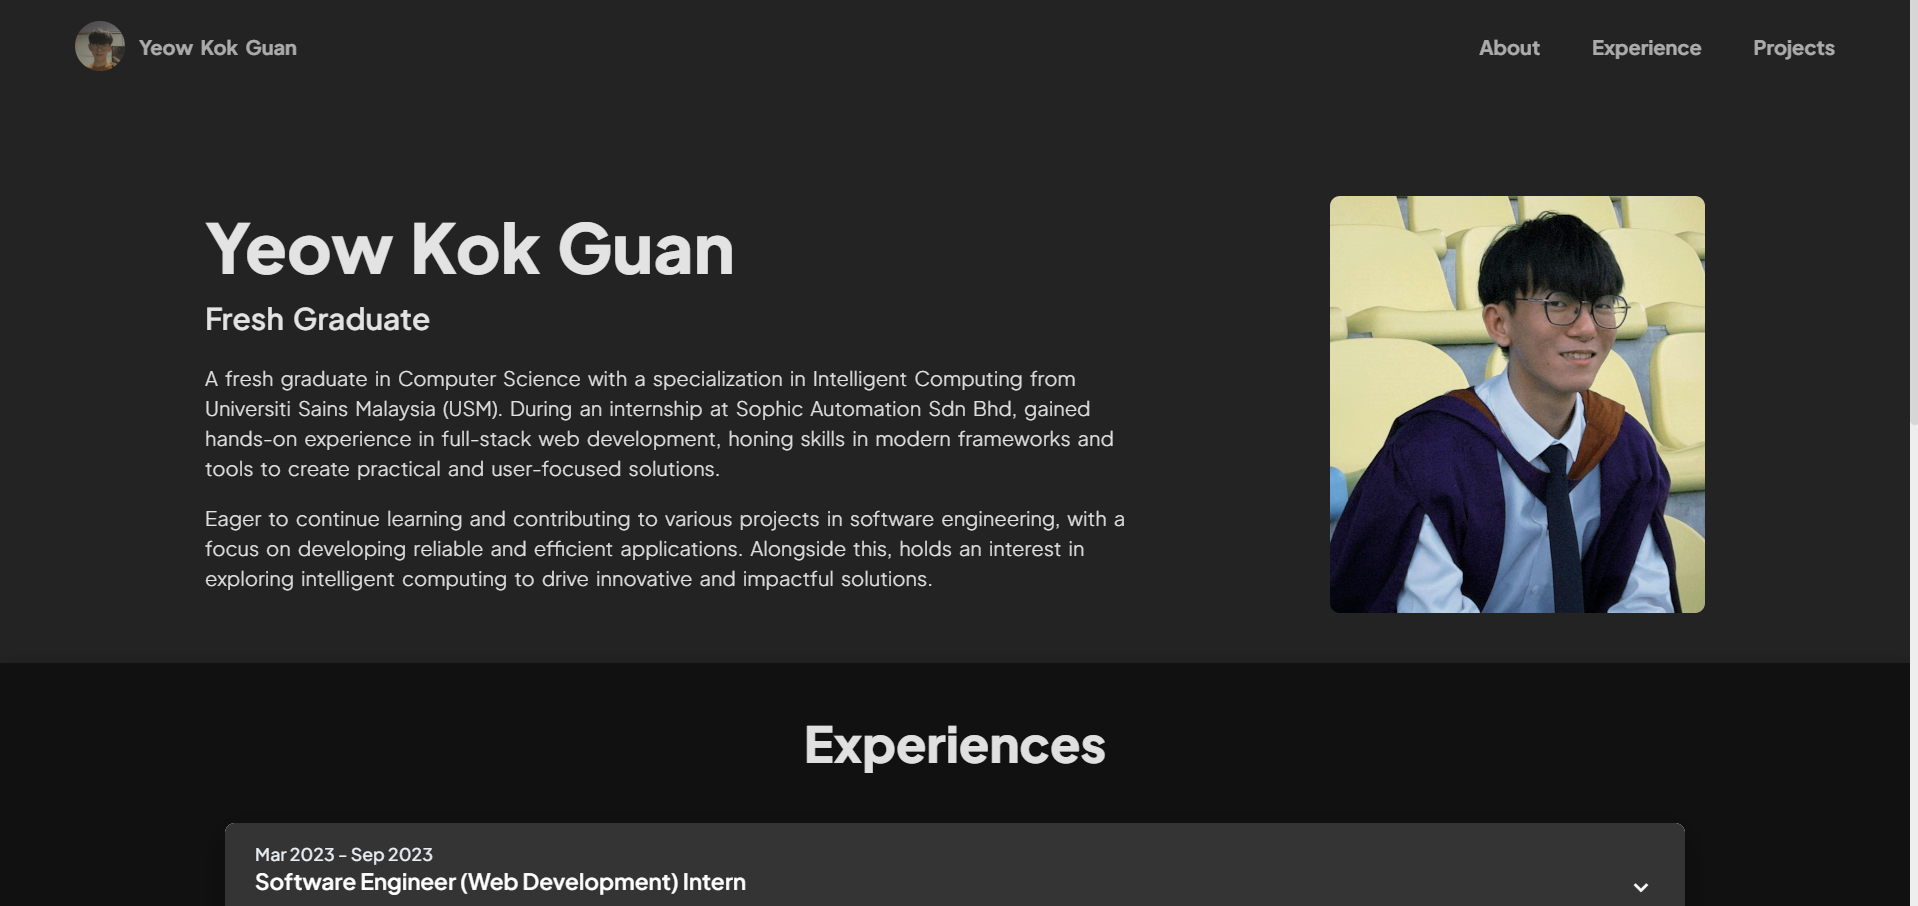
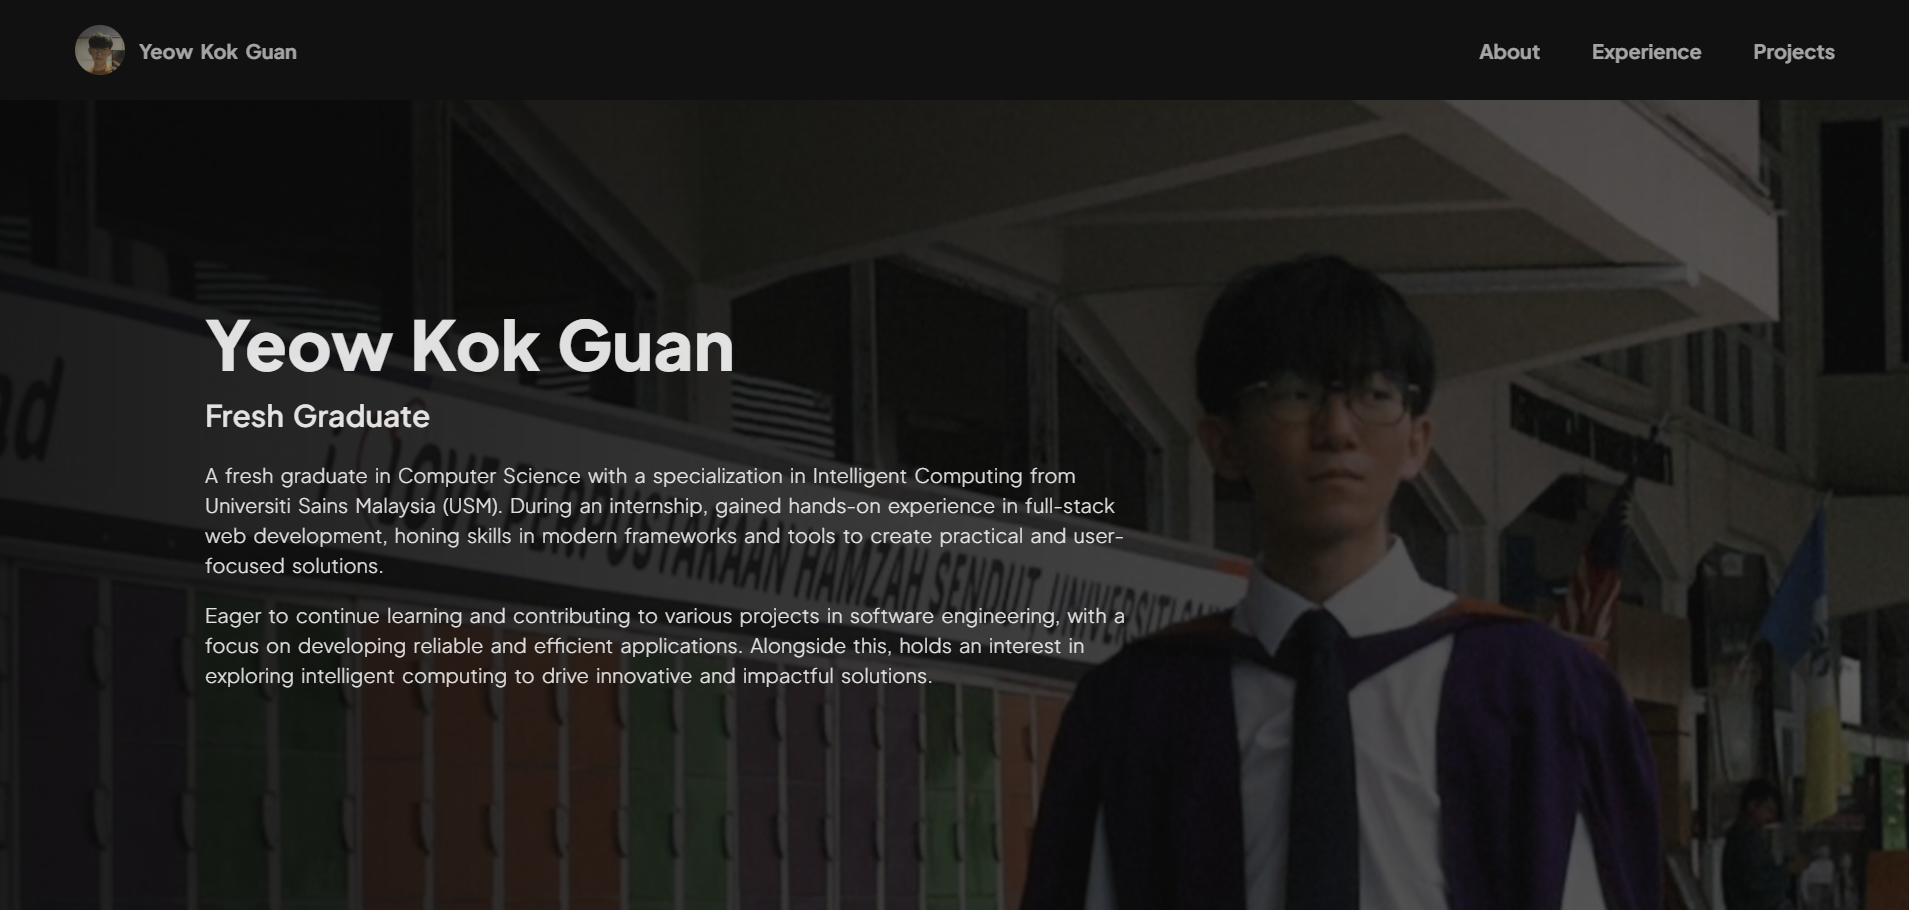
Update

Changed region(s): [[0.0, 0.0, 1.0, 1.0], [0.8345, 0.0309, 0.9581, 0.0618], [0.7727, 0.0309, 0.8036, 0.0618]]

diff --git a/components/main/Projects.vue b/components/main/Projects.vue
@@ -2,30 +2,41 @@
   <!-- Projects -->
   <v-sheet class="maxWidth bg-transparent">
     <!-- Title -->
-    <h1 id="title-projects" class="font-weight-black mb-3 text-center" style="scroll-margin-top: 90px">Projects</h1>
+    <h1 id="title-projects" class="font-weight-black mb-10 text-center" style="scroll-margin-top: 90px">Projects</h1>
 
     <!-- Project List -->
-    <v-slide-group center-active show-arrows>
-      <div class="d-flex flex-wrap justify-space-between w-100">
-        <v-slide-group-item v-for="(item, i) in projects" :key="i">
-          <!-- Project Card -->
-          <v-card class="project-card mx-4 my-7" max-width="340" rounded="3" elevation="5" :href="item.link" target="_blank" color="card">
-            <v-img class="align-end" height="160" :src="`${config.app.baseURL}${item.thumbnail}`" gradient="to bottom, rgba(0,0,0,.3), rgba(0,0,0,.75)" cover>
-              <v-card-item class="pt-4 pb-3">
-                <h5 class="text-h5 mb-1 text-white">{{ item.name }}</h5>
-              </v-card-item>
-              <v-icon class="display-open-new position-absolute top-0 end-0 m-2 text-white" icon="mdi-open-in-new" size="18px"/>
-            </v-img>
-            <v-card-text class="py-4">
-              <p class="text-body-1 font-weight-light mb-2">{{ item.description }}</p>
-              <div class="d-flex flex-wrap">
-                <v-chip class="text-body-2 me-2 my-1" density="compact" v-for="skill in item.techStack">{{ skill }}</v-chip>
-              </div>
-            </v-card-text>
-          </v-card>
-        </v-slide-group-item>
-      </div>
-    </v-slide-group>
+    <v-data-iterator id="iterator-projects" :items="projects" :page="currentPage" :items-per-page="3">
+      <template #default="{ items }">
+        <v-row class="mb-3">
+          <v-col cols="12" lg="4" md="4" sm="12" v-for="(item, i) in items">
+            <v-card class="project-card h-100 w-100" rounded="1" elevation="5" :href="item.raw.link" target="_blank" color="card">
+              <v-img
+                id="project-image"
+                class="align-end"
+                height="150px"
+                :src="`${config.app.baseURL}${item.raw.thumbnail}`"
+                gradient="to bottom left, rgba(0,0,0,.65), rgba(0,0,0,.95)"
+                cover
+              >
+                <v-card-item class="pt-4 pb-3">
+                  <h6 id="project-name" class="text-h6 mb-1 text-white">{{ item.raw.name }}</h6>
+                </v-card-item>
+                <v-icon class="display-open-new position-absolute top-0 end-0 m-2 text-white" icon="mdi-open-in-new" size="18px"/>
+              </v-img>
+              <v-card-text class="py-4">
+                <p id="project-description" class="text-body-1 font-weight-light mb-2">{{ item.raw.description }}</p>
+                <div id="project-skill" class="d-flex flex-wrap">
+                  <v-chip class="text-body-2 me-2 my-1" density="compact" v-for="skill in item.raw.techStack">{{ skill }}</v-chip>
+                </div>
+              </v-card-text>
+            </v-card>
+          </v-col>
+        </v-row>
+      </template>
+      <template #footer="{ pageCount }">
+        <v-pagination id="iterator-projects-pagination" class="text-body-1" density="comfortable" rounded="1" v-model="currentPage" :length="pageCount"/>
+      </template>
+    </v-data-iterator>
   </v-sheet>
 </template>
 
@@ -34,4 +45,28 @@ import projects from '~/data/projects'
 
 // Data
 const config = useRuntimeConfig()
+const currentPage = ref(1)
 </script>
+
+<style lang="scss" scoped>
+@media (max-width: 800px) {
+  #project-image {
+    height: 140px !important;
+  }
+
+  #project-name {
+    font-size: 14px !important;
+  }
+
+  #project-description {
+    font-size: 12px !important;
+  }
+
+  #project-skill {
+    .v-chip {
+      height: 20px !important;
+      font-size: 10px !important;
+    }
+  }
+}
+</style>

diff --git a/components/main/AboutMe.vue b/components/main/AboutMe.vue
@@ -1,28 +1,39 @@
 <template>
   <!-- About Me -->
-  <v-sheet class="d-flex flex-wrap align-end justify-space-end maxWidth bg-transparent">
-    <v-sheet class="my-auto" max-width="750" color="transparent">
-      <!-- Name -->
-      <h1 id="title-about" class="font-weight-black" style="font-size: 55px; scroll-margin-top: 90px">Yeow Kok Guan</h1>
+  <v-sheet class="maxWidth bg-transparent">
+    <!-- Title -->
+    <h1 id="title-aboutme" class="font-weight-black mb-10 text-center" style="scroll-margin-top: 90px">About Me</h1>
 
-      <!-- Title -->
-      <h3 id="about-small-title" class="text-h3 mb-5">
-        Fresh Graduate
-      </h3>
-
-      <!-- Description -->
-      <div id="about-description">
-        <p class="font-weight-light">
-          A fresh graduate in Computer Science with a specialization in Intelligent Computing from Universiti Sains Malaysia (USM).
-          During an internship, gained hands-on experience in full-stack web development,
-          honing skills in modern frameworks and tools to create practical and user-focused solutions.
-        </p>
-        <p class="font-weight-light">
-          Eager to continue learning and contributing to various projects in software engineering,
-          with a focus on developing reliable and efficient applications.
-          Alongside this, holds an interest in exploring intelligent computing to drive innovative and impactful solutions.
-        </p>
-      </div>
+    <v-sheet class="d-flex" color="transparent">
+      <v-row>
+        <v-col cols="12" lg="4" md="4" sm="12">
+          <!-- About Me Image -->
+          <v-img
+            id="aboutme-image"
+            :src="`${config.app.baseURL}images/KokGuan_AboutMe.jpg`"
+            rounded="1"
+            :aspect-ratio="3/4"
+            width="320"
+            alt="Yeow Kok Guan"
+            cover
+          />
+        </v-col>
+        <v-col cols="12" lg="8" md="8" sm="12">
+          <!-- Description -->
+          <div id="aboutme-description">
+            <p class="text-body-1 font-weight-light">
+              Hello! I'm Yeow Kok Guan, a fresh graduate in Computer Science with a specialization in Intelligent Computing from Universiti Sains Malaysia (USM).
+              During an internship, gained hands-on experience in full-stack web development,
+              honing skills in modern frameworks and tools to create practical and user-focused solutions.
+            </p>
+            <p class="text-body-1 font-weight-light">
+              Eager to continue learning and contributing to various projects in software engineering,
+              with a focus on developing reliable and efficient applications.
+              Alongside this, holds an interest in exploring intelligent computing to drive innovative and impactful solutions.
+            </p>
+          </div>
+        </v-col>
+      </v-row>
     </v-sheet>
   </v-sheet>
 </template>
@@ -32,22 +43,18 @@
 const config = useRuntimeConfig()
 </script>
 
-<style lang="scss" scoped>
+<style lang="scss">
 @media (max-width: 800px) {
-  .v-sheet {
-    text-align: center;
+  #aboutme-image {
+    margin: auto !important;
+    width: 250px !important;
+    height: 250px !important;
   }
 
-  #title-about {
-    font-size: 35px !important;
-  }
-
-  #about-small-title {
-    font-size: 20px !important;
-  }
-
-  #about-description {
-    font-size: 14px !important;
+  #aboutme-description {
+    p {
+      font-size: 12px !important;
+    }
   }
 }
 </style>

diff --git a/data/projects.ts b/data/projects.ts
@@ -33,20 +33,34 @@ const projects: menu[] = [
   },
 
   // Testing Data
-  // {
-  //   name: "Real-time Chat Application",
-  //   thumbnail: "/images/products/s7.jpg",
-  //   description: `A real-time chat application that supports multiple users and rooms, developed using Node.js and WebSocket.`,
-  //   techStack: ["HTML", "JavaScript", "Node.js", "WebSocket", "CSS"],
-  //   link: "https://mychatapp.com",
-  // },
-  // {
-  //   name: "E-commerce Platform",
-  //   thumbnail: "/images/products/s11.jpg",
-  //   description: `An e-commerce platform featuring a product catalog, shopping cart, and payment integration.`,
-  //   techStack: ["HTML", "CSS", "JavaScript", "React", "Node.js", "MongoDB"],
-  //   link: "https://myecommerce.com",
-  // },
+  {
+    name: "Real-time Chat Application",
+    thumbnail: "images/products/s7.jpg",
+    description: `A real-time chat application that supports multiple users and rooms, developed using Node.js and WebSocket.`,
+    techStack: ["HTML", "JavaScript", "Node.js", "WebSocket", "CSS"],
+    link: "https://mychatapp.com",
+  },
+  {
+    name: "E-commerce Platform",
+    thumbnail: "images/products/s11.jpg",
+    description: `An e-commerce platform featuring a product catalog, shopping cart, and payment integration.`,
+    techStack: ["HTML", "CSS", "JavaScript", "React", "Node.js", "MongoDB"],
+    link: "https://myecommerce.com",
+  },
+  {
+    name: "Testing Application 1",
+    thumbnail: "images/products/s7.jpg",
+    description: `A real-time chat application that supports multiple users and rooms, developed using Node.js and WebSocket.`,
+    techStack: ["HTML", "JavaScript", "Node.js", "WebSocket", "CSS"],
+    link: "https://mychatapp.com",
+  },
+  {
+    name: "Testing Application 2",
+    thumbnail: "images/products/s11.jpg",
+    description: `An e-commerce platform featuring a product catalog, shopping cart, and payment integration.`,
+    techStack: ["HTML", "CSS", "JavaScript", "React", "Node.js", "MongoDB"],
+    link: "https://myecommerce.com",
+  },
 ]
 
 export default projects

diff --git a/pages/index.vue b/pages/index.vue
@@ -1,18 +1,33 @@
 <template>
   <v-parallax
-    class="parallax-aboutme m-0 p-0"
-    :src="`${config.app.baseURL}images/background/aboutme-bg.jpg`"
+    class="parallax-home"
+    :src="`${config.app.baseURL}images/background/home-bg.jpg`"
     gradient="to right, rgba(0,0,0,.8), rgba(0,0,0,.25)"
   >
-    <v-sheet id="section-aboutme" class="section pb-10 d-flex" style="padding-top: 40px; background-color: #11111180; height: calc(100vh - 80px);">
-      <v-row class="mx-0 align-self-center">
-        <v-col>
-          <MainAboutMe/>
-        </v-col>
-      </v-row>
+    <v-sheet
+      id="section-home"
+      class="section d-flex flex-column fill-height justify-center align-center"
+      style="background-color: #11111180; min-height: calc(100vh - 80px)"
+    >
+      <p id="home-description" class="text-h3 font-weight-light">Hey there. I'm</p>
+      
+      <!-- Title -->
+      <h1 id="home-title" class="font-weight-black mb-3" style="font-size: 65px; scroll-margin-top: 80px">Yeow Kok Guan</h1>
+
+      <!-- Small Title -->
+      <h3 id="home-small-title" class="text-h2">
+        Fresh Graduate
+      </h3>
     </v-sheet>
   </v-parallax>
-  <v-sheet id="section-experience" class="section py-10" elevation="5" color="section">
+  <v-sheet id="section-aboutme" class="section py-10" color="transparent">
+    <v-row class="mx-0">
+      <v-col>
+        <MainAboutMe/>
+      </v-col>
+    </v-row>
+  </v-sheet>
+  <v-sheet id="section-experience" class="section py-10" elevation="15" color="section">
     <v-row class="mx-0">
       <v-col>
         <MainJobExperiences/>
@@ -40,8 +55,20 @@ useHead({
 
 <style lang="scss" scoped>
 @media (max-width: 800px) {
-  #section-aboutme {
-    padding-top: 40px !important;
+  #section-home {
+    text-align: center;
+  }
+
+  #home-description {
+    font-size: 18px !important;
+  }
+
+  #home-title {
+    font-size: 35px !important;
+  }
+
+  #home-small-title {
+    font-size: 25px !important;
   }
 }
 </style>

diff --git a/components/main/JobExperiences.vue b/components/main/JobExperiences.vue
@@ -5,14 +5,14 @@
     <h1 id="title-experiences" class="font-weight-black mb-10 text-center" style="scroll-margin-top: 90px">Experiences</h1>
     
     <!-- Experience List -->
-    <v-timeline id="timeline-experience" dot-color="#000" side="end" :align="`start`" line-color="card">
+    <v-timeline id="timeline-experience" dot-color="#000" side="end" :align="`start`" line-color="primary">
       <v-timeline-item
         v-for="exp in jobExperiences"
-        size="small"
+        size="x-small"
         hide-dot
       >
         <template #opposite>
-          <v-label id="experience-time" class="text-subtitle-1 font-weight-medium text-grey200 text-wrap">
+          <v-label id="experience-time" class="text-subtitle-2 font-weight-medium text-wrap" style="color: #ADB5BD;">
             {{ exp.timeStart }} - {{ exp.timeEnd }}
           </v-label>
         </template>
@@ -47,11 +47,15 @@ import jobExperiences from '~/data/experiences'
 <style lang="scss" scoped>
 @media (max-width: 800px) {
   #timeline-experience {
+    #experience-time {
+      font-size: 10px !important;
+    }
+
     #experience-job {
       font-size: 16px !important;
     }
 
-    #experience-time, #experience-company, #experience-description {
+    #experience-company, #experience-description {
       font-size: 12px !important;
     }
 

diff --git a/assets/scss/config/modernize/style.scss b/assets/scss/config/modernize/style.scss
@@ -19,6 +19,7 @@
 @import './../../components/VListItem';
 @import './../../components/VMenu';
 @import './../../components/VNavigationDrawer';
+@import './../../components/VPagination';
 @import './../../components/VSelect';
 @import './../../components/VShadow';
 @import './../../components/VTextField';

diff --git a/assets/scss/config/custom/custom.scss b/assets/scss/config/custom/custom.scss
@@ -1,4 +1,14 @@
-.parallax-aboutme {
+@media (max-width: 800px) {
+  #iterator-projects-pagination {
+    .v-pagination__list {
+      .v-btn {
+        font-size: 14px !important;
+      }
+    }
+  }
+}
+
+.parallax-home {
   .v-responsive__sizer {
     padding: 0 !important;
   }

diff --git a/theme/LightTheme.ts b/theme/LightTheme.ts
@@ -11,7 +11,7 @@ const PurpleTheme: ThemeTypes = {
     topbar: '#111111',
     footer: '#232323',
     section: '#232323',
-    card: '#343434',
+    card: '#232323',
     background: '#111111',
     primary: '#575757',
     secondary: '#7A7A7A',

diff --git a/data/navbarItem.ts b/data/navbarItem.ts
@@ -14,7 +14,7 @@ export interface menu {
 const navbarItem: menu[] = [
   {
     title: 'About', 
-    to: '#title-about',
+    to: '#title-aboutme',
   },
   {
     title: 'Experience',

diff --git a/assets/scss/components/_VPagination.scss b/assets/scss/components/_VPagination.scss
@@ -1,0 +1,6 @@
+.v-pagination {
+  .v-pagination__list {
+    margin: 0;
+    padding: 0;
+  }
+}
